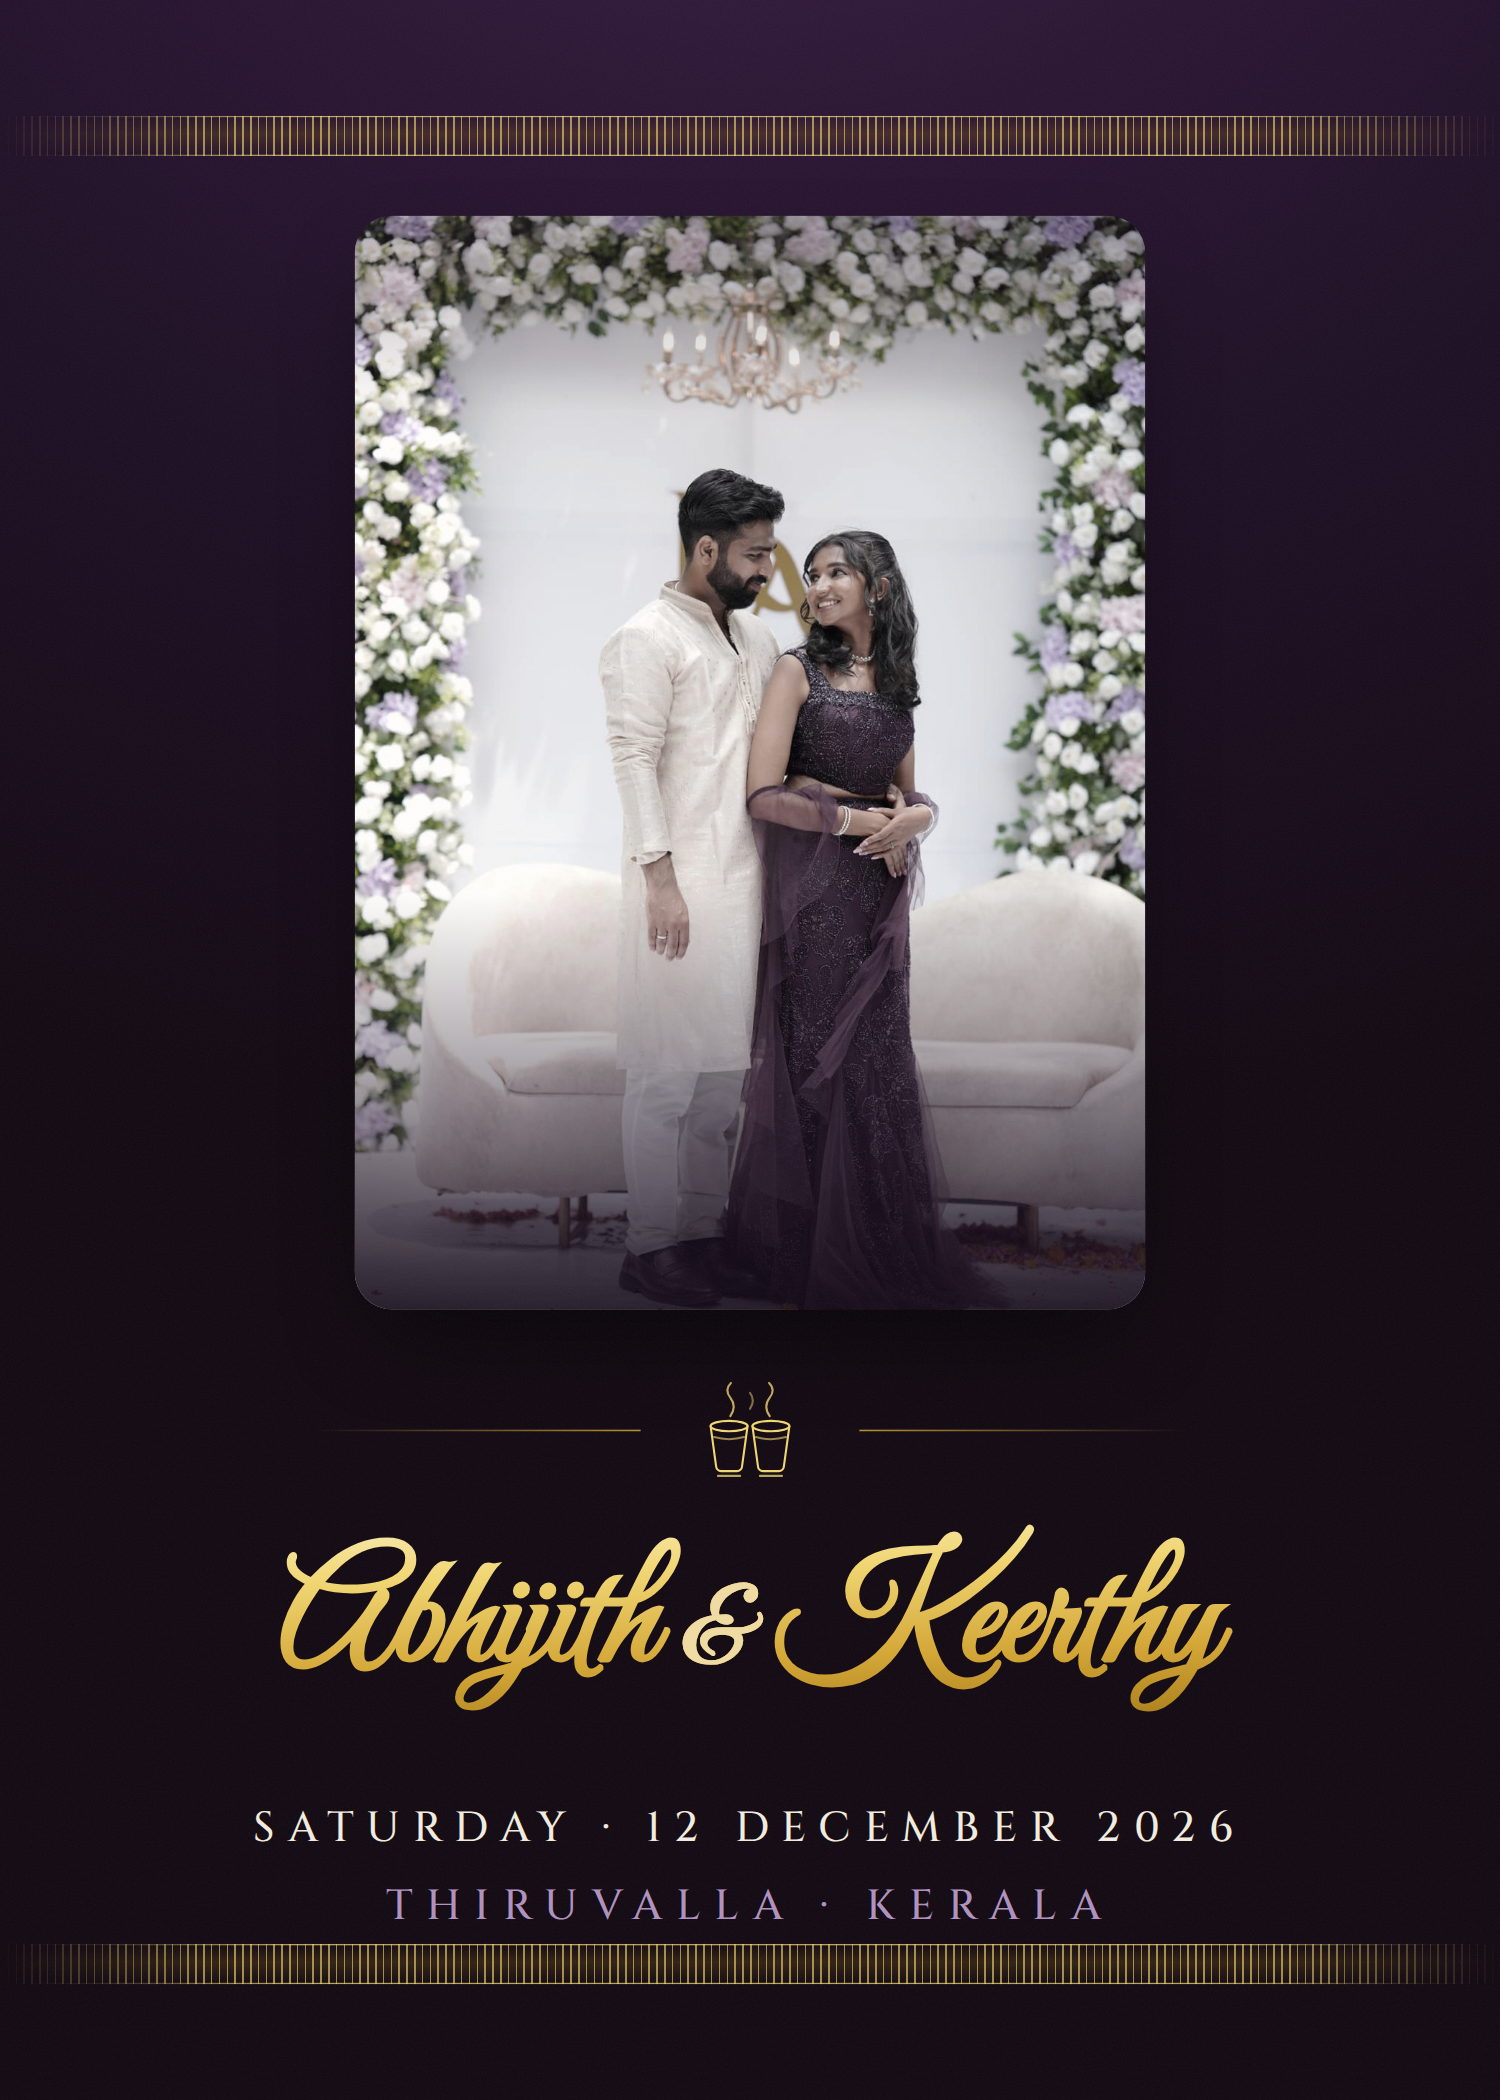
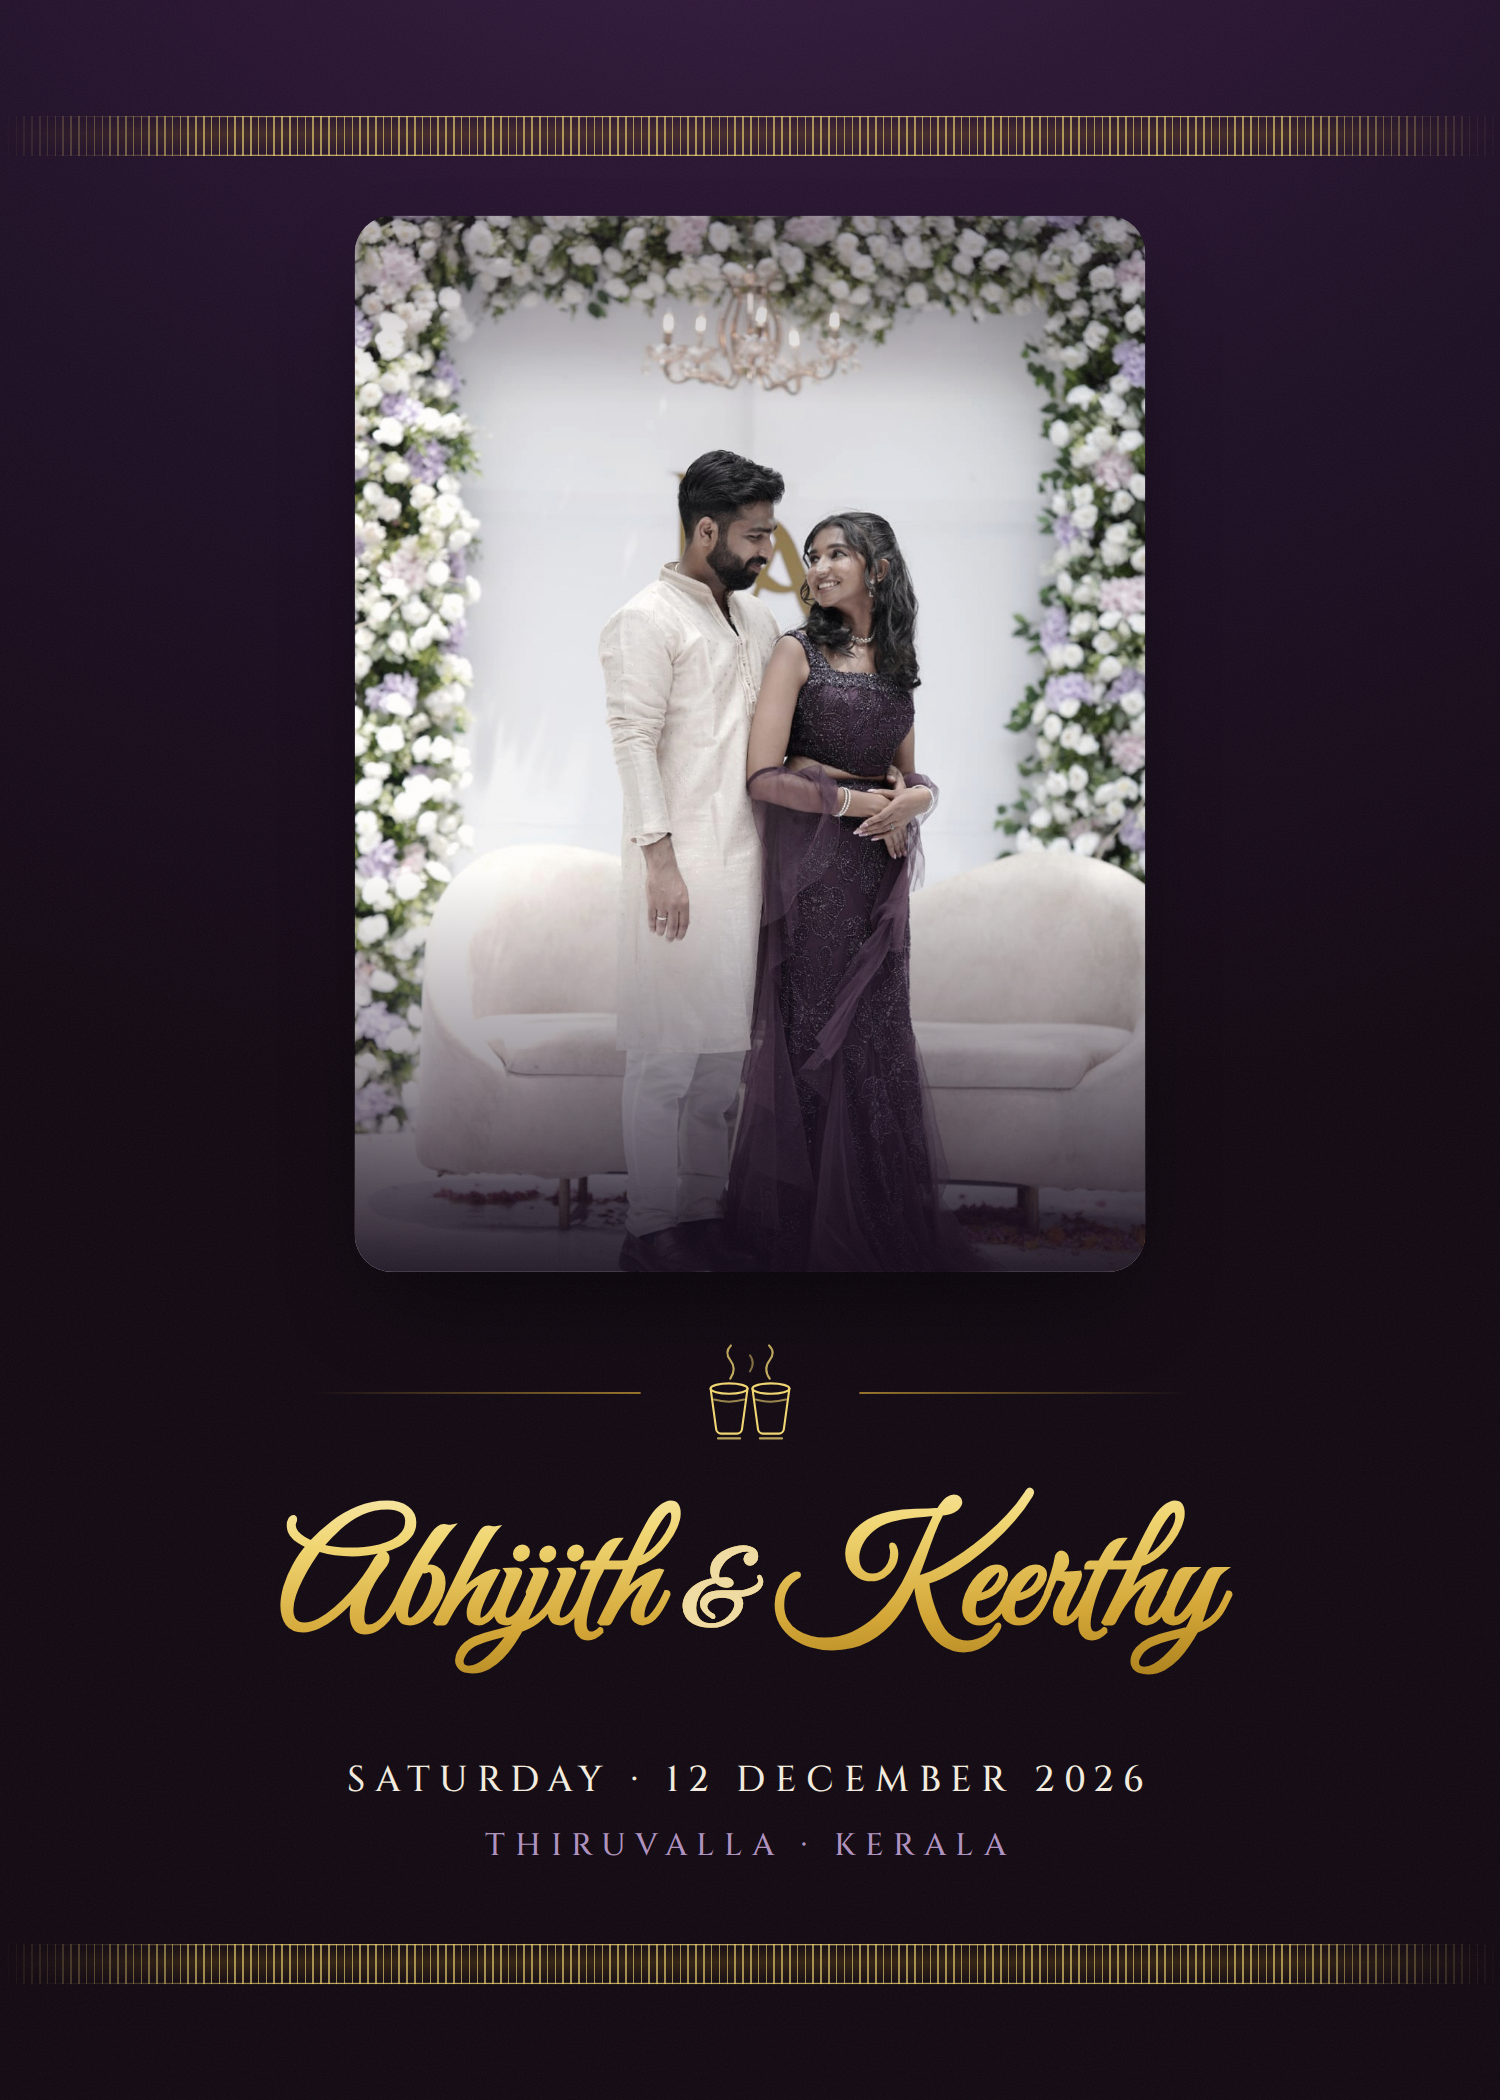
Take the tea glasses off the back, and let the front's foot breathe
The glasses come off the card back — they had been squeezed to 0.23in to pay
for the 10pt type and were reading as a smudge rather than a mark. They stay
on the front, where they divide the photo from the names at full size.

The QR drops from 1.17in to 1in and its caption to 7.1pt. prepare-assets.py
retargets the generated codes to match, so they are still drawn near 1:1
rather than resampled at a fraction; verify-qr.py passes all four at 100, 80
and 70 per cent.

On the front, the date and place sat 4px off the kasavu band, which read as a
collision rather than a margin. The stack's foot moves up 46px and both lines
come down a size or two.

The caption and those two front lines are deliberately under the 10pt floor.
They are captions rather than anything read at arm's length, and at 10pt they
crowded the band and fought the script above them.

Claude-Session: https://claude.ai/code/session_01U3eNzvzbkYwe2F9QhNWExs

diff --git a/invitation/card-back.css b/invitation/card-back.css
@@ -180,14 +180,6 @@
   margin-top: 24px;
 }
 
-/* --- the chai glasses ----------------------------------------------------
-   Kept as a mark between the schedule and the QR. It carries its own meaning
-   without a caption under it, and it echoes the divider on the card front. */
-
-.chai-mark {
-  margin-top: auto;
-}
-
 /* --- QR ------------------------------------------------------------------ */
 
 .qr-block {
@@ -202,12 +194,12 @@
 /* a cream plaque, not a cutout: the code has to be dark-on-light with its
    quiet zone intact or phones will not read it off the printed card */
 .qr-block img {
-  /* 237px = 370 device pixels at 300dpi, which is the size
-     build/prepare-assets.py now generates both codes at. Drawn essentially
-     1:1, so the browser is not resampling a module grid at a fraction — which
-     is what kept breaking one code or the other every time the layout moved. */
-  width: 237px;
-  height: 237px;
+  /* 192px — one inch, which is as small as a printed code of this module
+     count should go. build/prepare-assets.py generates both codes near this
+     size so the browser is barely scaling them; verify-qr.py is what says
+     whether a size is actually safe, not the eye. */
+  width: 192px;
+  height: 192px;
   display: block;
   border-radius: 3px;
   box-shadow: 0 0 0 1px rgba(203, 162, 77, 0.5), 0 8px 20px -8px rgba(0, 0, 0, 0.6);
@@ -223,7 +215,9 @@
 .qr-block .caption {
   font-family: var(--font-label);
   text-transform: uppercase;
-  font-size: 27px;
+  /* Below the 10pt floor on purpose: this is a caption on a code, not
+     something anyone reads at arm's length. */
+  font-size: 19px;
   letter-spacing: 0.2em;
   color: rgba(236, 217, 171, 0.88);
 }

diff --git a/invitation/card-front.html b/invitation/card-front.html
@@ -7,7 +7,9 @@
 <style>
   .stack {
     position: absolute;
-    inset: 108px 78px 104px;
+    /* The foot sat 4px off the kasavu band, which read as a collision. The
+       date lines now have room to breathe under them. */
+    inset: 108px 78px 150px;
     display: flex;
     flex-direction: column;
     align-items: center;
@@ -69,17 +71,19 @@
   }
 
   .when {
-    font-size: 27px;
-    letter-spacing: 0.3em;
+    /* Below the 10pt floor deliberately: these two lines are a caption under
+       the names, and at 10pt they crowded the band and fought the script. */
+    font-size: 23px;
+    letter-spacing: 0.26em;
     color: var(--ivory);
-    margin-top: 30px;
+    margin-top: 26px;
   }
 
   .where {
-    font-size: 27px;
-    letter-spacing: 0.32em;
+    font-size: 20px;
+    letter-spacing: 0.3em;
     color: rgba(198, 165, 216, 0.9);
-    margin-top: 14px;
+    margin-top: 12px;
   }
 </style>
 </head>

diff --git a/invitation/card-back-public.html b/invitation/card-back-public.html
@@ -73,8 +73,6 @@
         </div>
       </div>
 
-      <span class="motif chai-mark" data-motif="chai" data-w="44"></span>
-
       <div class="qr-block">
         <img src="assets/qr-public.png" alt="">
         <span class="caption">Timings, directions &amp; RSVP</span>

diff --git a/invitation/card-back-all.html b/invitation/card-back-all.html
@@ -85,8 +85,6 @@
         </div>
       </div>
 
-      <span class="motif chai-mark" data-motif="chai" data-w="44"></span>
-
       <div class="qr-block">
         <img src="assets/qr-all.png" alt="">
         <span class="caption">Timings, directions &amp; RSVP</span>

diff --git a/invitation/build/prepare-assets.py b/invitation/build/prepare-assets.py
@@ -93,7 +93,7 @@ def build_hero():
     print("hero.jpg", im.size)
 
 
-TARGET_QR_PX = 370   # what the card draws it into, in 300dpi device pixels
+TARGET_QR_PX = 300   # what the card draws it into, in 300dpi device pixels
 
 
 def build_qr():
